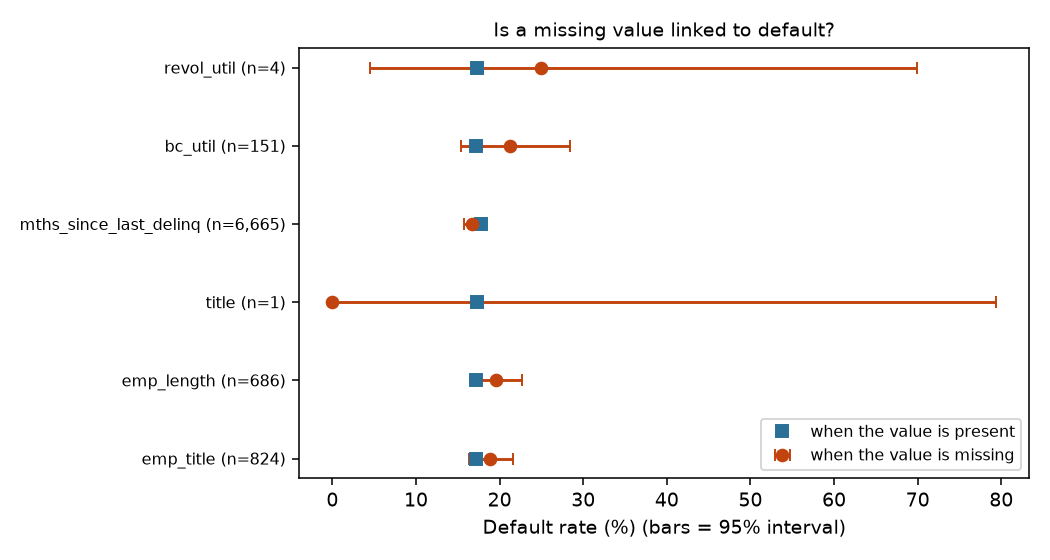
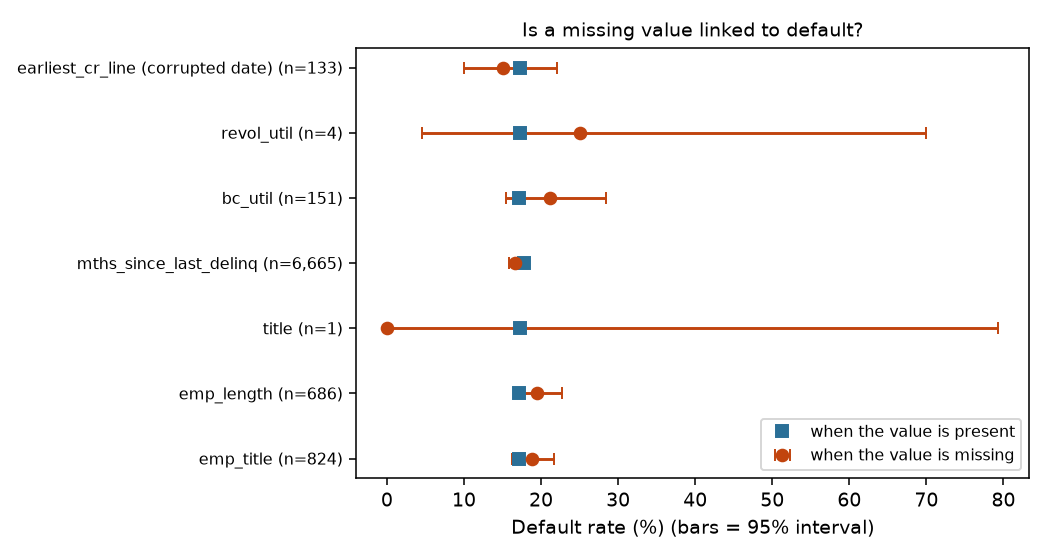
feat: rate servicing fields as leaks, add leakage scan, consistency checks, tighter missingness evidence and reliability spec export

diff --git a/src/credit_risk/field_catalog.py b/src/credit_risk/field_catalog.py
@@ -5,7 +5,8 @@ Reliability rules (evidence in docs/issue_log.md and reports/a3_reliability_evid
           only a small share (about 1%) that were found and repaired;
   medium  reported by the borrower but consistent in the tests, or a system field with errors
           that could not be fully repaired, or with large structural missingness;
-  low     free text, or a field whose content is duplicated, unreliable or a leak.
+  low     free text, or a field whose content is duplicated, unreliable or a leak (every
+          post-issue servicing field is a leak and is rated low).
 Roles: input (usable by the model), platform_score (known at application but produced by the
 platform's own risk model), restricted (location, treatment decided in the fairness review),
 time_key, id, target, excluded (with the reason).
@@ -34,27 +35,27 @@ CATALOG = [
     _f("purpose", APP, True, "input", "medium", "Chosen by the borrower from 13 options; clean, but stated intent is not verified."),
     _f("title", APP, True, "excluded", "low", "Borrower-typed text; 1,821 distinct values that mostly restate purpose."),
     _f("application_type", APP, True, "input", "high", "Platform-recorded; only 16 joint applications, too few to learn from."),
-    _f("emp_title", APP, True, "input", "low", "Borrower-typed text; 5.7% missing; case and spacing variants (15,657 values fall to 13,484). Missing mostly among verified applicants, not linked to default. Used only after grouping into job groups."),
-    _f("emp_length", APP, True, "input", "medium", "Self-reported; 4.8% missing, tied to the verification process, not to default (19.5% vs 17.1%, p = 0.11)."),
+    _f("emp_title", APP, True, "input", "low", "Borrower-typed text; 5.7% missing, concentrated among verified applicants (0.2% of unverified, 3.6% of source-verified, 12.4% of verified), not linked to default (18.8% vs 17.1%, p = 0.22). Case and spacing variants (15,657 values fall to 13,484). Used only after grouping into job groups."),
+    _f("emp_length", APP, True, "input", "medium", "Self-reported; 4.8% missing, tied to the verification process (0.0% of unverified, 2.4% of source-verified, 10.9% of verified), not clearly to default (19.5% vs 17.1%, p = 0.11)."),
     _f("home_ownership", APP, True, "input", "medium", "Self-reported; clean categories."),
     _f("annual_inc", APP, True, "input", "medium", "Self-reported. 899 loans (3%) typed in thousands, repaired. Consistent with credit limits and debt ratios in every verification group (rank correlation 0.55 to 0.57 with total credit limit), so usable; verified incomes are higher (median $66-67k vs $58k)."),
     _f("verification_status", APP, True, "input", "high", "Recorded by the platform. Do not read it as lower risk: verified loans default more (19% vs 13%), likely because the platform chooses whom to verify."),
     _f("dti", APP, True, "input", "medium", "Platform-computed from the stated income and bureau debts, so only as reliable as the income. Rises with revolving balance relative to income (correlation 0.36 to 0.43), as it should."),
     _f("zip_code", APP, True, "restricted", "medium", "First three digits only; disagrees with the state in 33 loans. Location can proxy for protected characteristics; treatment decided in the fairness review."),
     _f("addr_state", APP, True, "restricted", "medium", "Self-reported; 3,000 loans (10%) with formatting variants, all repaired. Treatment decided in the fairness review."),
-    _f("earliest_cr_line", BUR, True, "input", "medium", "Bureau-reported. 300 loans (1%) have a date after the loan, corrupted beyond repair: set missing with an indicator. 1,200 in other formats, parsed."),
+    _f("earliest_cr_line", BUR, True, "input", "medium", "Bureau-reported. 300 loans (1%) have a date after the loan, corrupted beyond repair (133 in the fit window): set missing with an indicator; not linked to default (15.0% vs 17.3%, p = 0.57). 1,200 in other formats, parsed."),
     _f("fico_range_low", BUR, True, "input", "high", "Bureau score. 150 loans (0.5%) had low and high swapped; repaired."),
     _f("fico_range_high", BUR, True, "input", "high", "Bureau score. Swapped with the low value in 150 loans; repaired."),
     _f("inq_last_6mths", BUR, True, "input", "high", "Bureau count; no errors found."),
     _f("delinq_2yrs", BUR, True, "input", "high", "Bureau count; no errors found; mostly zero, long tail capped."),
-    _f("mths_since_last_delinq", BUR, True, "input", "medium", "Missing in 46% of loans, and structurally: 99.7% of the missing have no delinquency in the last two years, so missing means none on record. Not linked to default (16.7% vs 17.7%, p = 0.09). 67 contradictions."),
+    _f("mths_since_last_delinq", BUR, True, "input", "medium", "Missing in 46% of loans, and structurally: 99.7% of the missing have no delinquency in the last two years, so missing means none on record. Not linked to default (16.7% vs 17.7%, p = 0.09). A few contradictions: missing although a delinquency was recorded in the last two years (18 loans in the fit window, 67 overall)."),
     _f("pub_rec", BUR, True, "input", "high", "Bureau count; no errors found."),
     _f("pub_rec_bankruptcies", BUR, True, "input", "high", "Bureau count; no errors found."),
     _f("open_acc", BUR, True, "input", "high", "Bureau count; never above total_acc."),
     _f("total_acc", BUR, True, "input", "high", "Bureau count; no errors found; never below open_acc."),
     _f("revol_bal", BUR, True, "input", "high", "Bureau amount; no errors found; heavy tail is genuine and capped; a few real zeros."),
     _f("revol_util", BUR, True, "input", "medium", "295 negative values (1%) were sign flips, proven against balance and limit; 12 missing (5 with no revolving limit, so undefined)."),
-    _f("bc_util", BUR, True, "input", "medium", "290 negative values (1%) set to missing because the sign flip cannot be proven; 1% more missing in the bureau file, with a weak link to higher default."),
+    _f("bc_util", BUR, True, "input", "medium", "290 negative values (1%) set to missing because the sign flip cannot be proven; 1% more missing in the bureau file, mostly for borrowers with few open accounts (8.6% missing at 3 or fewer open accounts vs 0.4% above 10), with a weak, unproven link to higher default (21.2% vs 17.2%, p = 0.19)."),
     _f("tot_cur_bal", BUR, True, "input", "high", "Bureau amount; no errors found; heavy tail capped."),
     _f("avg_cur_bal", BUR, True, "input", "high", "Bureau amount; no errors found; heavy tail capped."),
     _f("total_rev_hi_lim", BUR, True, "input", "high", "Bureau amount; no errors found; heavy tail capped."),
@@ -62,17 +63,17 @@ CATALOG = [
     _f("mort_acc", BUR, True, "input", "high", "Bureau count; no errors found."),
     _f("acc_open_past_24mths", BUR, True, "input", "high", "Bureau count; no errors found."),
     _f("num_tl_op_past_12m", BUR, True, "input", "high", "Bureau count; no errors found."),
-    _f("bureau_recovery_flag", BUR, False, "excluded", "low", "Leak: identical to `recoveries > 0` in the servicing file (4,207 of 4,207 loans), and every flagged loan defaulted. Absent from the 2016 holdout in any useful form (always 0)."),
-    _f("total_pymnt", SRV, False, "excluded", "n/a", POST + " Payments made so far reveal the outcome."),
-    _f("total_rec_prncp", SRV, False, "excluded", "n/a", POST + " Principal repaid reveals the outcome."),
-    _f("total_rec_int", SRV, False, "excluded", "n/a", POST + " Interest paid reveals how long the loan ran."),
-    _f("recoveries", SRV, False, "excluded", "n/a", POST + " Money recovered after a charge-off: only exists for defaulted loans."),
-    _f("last_pymnt_d", SRV, False, "excluded", "n/a", POST),
-    _f("last_pymnt_amnt", SRV, False, "excluded", "n/a", POST + " 249 values exceed the total paid."),
-    _f("last_credit_pull_d", SRV, False, "excluded", "n/a", POST),
-    _f("last_fico_range_high", SRV, False, "excluded", "n/a", POST + " A later score, lower for defaulters (mean 571 vs 701)."),
-    _f("last_fico_range_low", SRV, False, "excluded", "n/a", POST + " A later score."),
-    _f("debt_settlement_flag", SRV, False, "excluded", "n/a", POST + " Every loan flagged Y (763) defaulted: a leak."),
+    _f("bureau_recovery_flag", BUR, False, "excluded", "low", "Leak: identical to `recoveries > 0` in the servicing file (4,207 of 4,207 loans), and every flagged loan defaulted (single-field AUC 0.91). Always 0 in the 2016 holdout."),
+    _f("total_pymnt", SRV, False, "excluded", "low", POST + " Payments made so far reveal the outcome. Alone it predicts default with AUC 0.72 (application-time fields: 0.51 to 0.59)."),
+    _f("total_rec_prncp", SRV, False, "excluded", "low", POST + " Principal repaid reveals the outcome. Alone it predicts default with AUC 0.85 (application-time fields: 0.51 to 0.59)."),
+    _f("total_rec_int", SRV, False, "excluded", "low", POST + " Interest paid reveals how long the loan ran."),
+    _f("recoveries", SRV, False, "excluded", "low", POST + " Money recovered after a charge-off: only exists for defaulted loans. Alone it predicts default with AUC 0.91 (application-time fields: 0.51 to 0.59)."),
+    _f("last_pymnt_d", SRV, False, "excluded", "low", POST),
+    _f("last_pymnt_amnt", SRV, False, "excluded", "low", POST + " 249 values exceed the total paid. Alone it predicts default with AUC 0.78 (application-time fields: 0.51 to 0.59)."),
+    _f("last_credit_pull_d", SRV, False, "excluded", "low", POST),
+    _f("last_fico_range_high", SRV, False, "excluded", "low", POST + " A later score, lower for defaulters (mean 571 vs 701). Alone it predicts default with AUC 0.91 (application-time fields: 0.51 to 0.59)."),
+    _f("last_fico_range_low", SRV, False, "excluded", "low", POST + " A later score."),
+    _f("debt_settlement_flag", SRV, False, "excluded", "low", POST + " Every loan flagged Y (763) defaulted: a leak."),
 ]
 
 
@@ -82,3 +83,10 @@ def catalog_frame():
 
 def input_fields():
     return [r["field"] for r in CATALOG if r["role"] == "input"]
+
+
+def reliability_spec():
+    """Per-field entries for data_spec.json: reliability, the reason, and how the field may be used."""
+    return {r["field"]: {"reliability": r["reliability"], "reliability_reason": r["reason"],
+                         "known_at_application": r["known_at_application"], "role": r["role"]}
+            for r in CATALOG}

diff --git a/scripts/a3_reliability_evidence.py b/scripts/a3_reliability_evidence.py
@@ -14,7 +14,8 @@ from sklearn.preprocessing import StandardScaler
 from sklearn.pipeline import make_pipeline
 
 from credit_risk.cleaning import Cleaner
-from credit_risk.io import FIT_CUTOFF, load_applications
+from credit_risk.io import FIT_CUTOFF, load_applications, load_servicing
+from sklearn.metrics import roc_auc_score
 from credit_risk.reporting import fresh_dirs
 from credit_risk.stats import wilson_interval
 
@@ -62,7 +63,7 @@ fit["title_missing"] = fit.title.isna()
 fit["bc_util_gap"] = fit.bc_util.isna() & ~fit.bc_util_invalid
 FIELDS = {"emp_title": fit.emp_title.isna(), "emp_length": fit.emp_length.isna(), "title": fit.title.isna(),
           "mths_since_last_delinq": fit.mths_since_last_delinq.isna(), "bc_util": fit.bc_util_gap,
-          "revol_util": fit.revol_util.isna()}
+          "revol_util": fit.revol_util.isna(), "earliest_cr_line (corrupted date)": fit.earliest_cr_line_invalid}
 num = fit[["annual_inc", "loan_amnt", "fico_range_low", "total_acc", "open_acc", "delinq_2yrs", "pub_rec",
            "inq_last_6mths", "revol_bal", "tot_cur_bal", "dti", "int_rate", "term"]].copy()
 num[["annual_inc", "loan_amnt", "revol_bal", "tot_cur_bal"]] = np.log1p(num[["annual_inc", "loan_amnt", "revol_bal", "tot_cur_bal"]])
@@ -101,6 +102,39 @@ ms = fit[fit.mths_since_last_delinq.isna()]
 print("mths_since_last_delinq missing: share with delinq_2yrs=0:", round((ms.delinq_2yrs == 0).mean(), 3), "| share with pub_rec=0:", round((ms.pub_rec == 0).mean(), 3),
       "| present-group share with delinq_2yrs=0:", round((fit.mths_since_last_delinq.notna() & (fit.delinq_2yrs == 0)).sum() / fit.mths_since_last_delinq.notna().sum(), 3))
 
+# 4. rule checks behind the "high" ratings (all loans)
+checks = {
+    "open_acc above total_acc": d.open_acc > d.total_acc,
+    "avg_cur_bal above tot_cur_bal": d.avg_cur_bal > d.tot_cur_bal + 1,
+    "total_rev_hi_lim above tot_hi_cred_lim": d.total_rev_hi_lim > d.tot_hi_cred_lim,
+    "pub_rec_bankruptcies above pub_rec": d.pub_rec_bankruptcies > d.pub_rec,
+    "acc_open_past_24mths above total_acc": d.acc_open_past_24mths > d.total_acc,
+    "num_tl_op_past_12m above acc_open_past_24mths": d.num_tl_op_past_12m > d.acc_open_past_24mths,
+    "FICO outside 300-850": (d.fico_range_low < 300) | (d.fico_range_high > 850),
+    "FICO range width not 4": (d.fico_range_high - d.fico_range_low) != 4,
+    "negative value in a bureau count": (d[["inq_last_6mths", "delinq_2yrs", "pub_rec", "pub_rec_bankruptcies", "open_acc", "total_acc",
+                                            "mort_acc", "acc_open_past_24mths", "num_tl_op_past_12m"]] < 0).any(axis=1),
+    "non-whole bureau count": (d[["inq_last_6mths", "delinq_2yrs", "pub_rec", "open_acc", "total_acc", "mort_acc"]] % 1 != 0).any(axis=1),
+    "installment above 40% of income": d.installment * 12 / d.annual_inc > .4,
+}
+pd.Series({k: int(v.sum()) for k, v in checks.items()}, name="loans_violating").to_csv(TAB / "bureau_consistency_checks.csv", index_label="check")
+
+# 5. leakage scan: how well does ONE field alone predict default? (servicing used for audit only)
+srv = load_servicing().set_index("id")
+inputs = ["loan_amnt", "annual_inc", "dti", "int_rate", "fico_range_low", "revol_util", "delinq_2yrs", "inq_last_6mths", "open_acc", "tot_hi_cred_lim"]
+scan = []
+for c in inputs:
+    x = fit[c].fillna(fit[c].median())
+    a = roc_auc_score(fit.defaulted, x); scan.append({"field": c, "known_at_application": True, "single_field_auc": max(a, 1 - a)})
+sv = srv.reindex(fit.id)
+for c in ["total_rec_prncp", "total_pymnt", "recoveries", "last_fico_range_high", "last_pymnt_amnt"]:
+    x = sv[c].fillna(sv[c].median()).to_numpy()
+    a = roc_auc_score(fit.defaulted, x); scan.append({"field": c, "known_at_application": False, "single_field_auc": max(a, 1 - a)})
+flag = raw.set_index("id").bureau_recovery_flag.reindex(fit.id).to_numpy()
+scan.append({"field": "bureau_recovery_flag", "known_at_application": False, "single_field_auc": roc_auc_score(fit.defaulted, flag)})
+scan = pd.DataFrame(scan)
+scan.round(3).to_csv(TAB / "leakage_scan_single_field_auc.csv", index=False)
+
 fig, ax = plt.subplots(figsize=(7.5, 4))
 y = range(len(dr))
 ax.errorbar(dr.default_rate_when_missing * 100, y, xerr=[(dr.default_rate_when_missing - dr.ci_low) * 100, (dr.ci_high - dr.default_rate_when_missing) * 100],
@@ -124,4 +158,5 @@ print("\nCONSISTENCY WITH INCOME\n", cons.round(3).T.to_string(header=False))
 print("\nMISSINGNESS vs DEFAULT\n", dr.round(3).to_string(index=False))
 print("\nMISSINGNESS MECHANISM (AUC 0.5 = unpredictable from other fields)\n", mech.round(3).to_string(index=False))
 print("\n", overlap.to_string())
+print("\nLEAKAGE SCAN (single-field AUC)\n", scan.round(3).to_string(index=False))
 print("\nTOP PREDICTORS OF MISSINGNESS\n", pd.DataFrame(drivers).round(2).to_string(index=False))

diff --git a/tests/test_field_catalog.py b/tests/test_field_catalog.py
@@ -12,6 +12,7 @@ def test_no_duplicate_fields_and_valid_values():
     df = catalog_frame()
     assert df.field.is_unique
     assert set(df.reliability) <= {"high", "medium", "low", "n/a"}
+    assert set(df[df.reliability == "n/a"].role) == {"id", "target"}  # every other field is rated
     assert set(df.role) <= {"input", "platform_score", "restricted", "time_key", "id", "target", "excluded"}
     assert (df.reason.str.len() > 20).all()
 
@@ -31,3 +32,23 @@ def test_every_column_of_the_source_files_is_covered():
     for f in files:
         cols = set(pd.read_csv(DATA / f"{f}.csv", nrows=0).columns)
         assert cols <= known, f"{f}: unrated {cols - known}"
+
+
+def test_loaded_training_data_contains_no_servicing_columns():
+    if not (DATA / "applications.csv").exists():
+        pytest.skip("data files not present")
+    from credit_risk.io import load_applications
+
+    servicing = set(catalog_frame().query("source == 'loan_servicing'").field)
+    assert not servicing & set(load_applications(DATA).columns)
+
+
+def test_reliability_spec_is_json_ready_and_complete():
+    import json
+
+    from credit_risk.field_catalog import reliability_spec
+
+    spec = reliability_spec()
+    assert set(spec) == {r["field"] for r in CATALOG}
+    assert set(spec["annual_inc"]) == {"reliability", "reliability_reason", "known_at_application", "role"}
+    json.dumps(spec)

diff --git a/scripts/a3_field_catalog.py b/scripts/a3_field_catalog.py
@@ -30,7 +30,7 @@ Generated by `scripts/a3_field_catalog.py` from `src/credit_risk/field_catalog.p
 - **low**: free text, or a field whose content is duplicated, unreliable or a leak.
 
 Evidence: `issue_log.md`, `reports/a3_reliability_evidence/` (income by verification status, consistency with
-income, missingness), `reports/a3_platform_score_check/`.
+income, missingness, a single-field leakage scan), `reports/a3_platform_score_check/`.
 
 Of the {len(avail[avail.reliability != 'n/a'])} rated fields known at application time:
 {counts.get('high', 0)} high, {counts.get('medium', 0)} medium, {counts.get('low', 0)} low.
@@ -41,7 +41,7 @@ Of the {len(avail[avail.reliability != 'n/a'])} rated fields known at applicatio
 ## Not known at application time ({len(late)} fields), excluded from every model input
 A field is excluded when it is recorded after the loan is issued, or when it is a copy of such a field.
 The servicing file is a March 2019 snapshot of how each loan went, so each of its columns reveals the
-outcome. It is used to audit the label and never reaches the model.
+outcome (any one of them alone predicts default with AUC 0.72 to 0.91, against 0.51 to 0.59 for single application-time fields). It is used to audit the label and never reaches the model.
 
 {table(late)}
 

diff --git a/docs/field_reliability.md b/docs/field_reliability.md
@@ -10,7 +10,7 @@ Generated by `scripts/a3_field_catalog.py` from `src/credit_risk/field_catalog.p
 - **low**: free text, or a field whose content is duplicated, unreliable or a leak.
 
 Evidence: `issue_log.md`, `reports/a3_reliability_evidence/` (income by verification status, consistency with
-income, missingness), `reports/a3_platform_score_check/`.
+income, missingness, a single-field leakage scan), `reports/a3_platform_score_check/`.
 
 Of the 38 rated fields known at application time:
 25 high, 11 medium, 2 low.
@@ -29,27 +29,27 @@ Of the 38 rated fields known at application time:
 | `purpose` | applications | medium | model input | Chosen by the borrower from 13 options; clean, but stated intent is not verified. |
 | `title` | applications | low | excluded | Borrower-typed text; 1,821 distinct values that mostly restate purpose. |
 | `application_type` | applications | high | model input | Platform-recorded; only 16 joint applications, too few to learn from. |
-| `emp_title` | applications | low | model input | Borrower-typed text; 5.7% missing; case and spacing variants (15,657 values fall to 13,484). Missing mostly among verified applicants, not linked to default. Used only after grouping into job groups. |
-| `emp_length` | applications | medium | model input | Self-reported; 4.8% missing, tied to the verification process, not to default (19.5% vs 17.1%, p = 0.11). |
+| `emp_title` | applications | low | model input | Borrower-typed text; 5.7% missing, concentrated among verified applicants (0.2% of unverified, 3.6% of source-verified, 12.4% of verified), not linked to default (18.8% vs 17.1%, p = 0.22). Case and spacing variants (15,657 values fall to 13,484). Used only after grouping into job groups. |
+| `emp_length` | applications | medium | model input | Self-reported; 4.8% missing, tied to the verification process (0.0% of unverified, 2.4% of source-verified, 10.9% of verified), not clearly to default (19.5% vs 17.1%, p = 0.11). |
 | `home_ownership` | applications | medium | model input | Self-reported; clean categories. |
 | `annual_inc` | applications | medium | model input | Self-reported. 899 loans (3%) typed in thousands, repaired. Consistent with credit limits and debt ratios in every verification group (rank correlation 0.55 to 0.57 with total credit limit), so usable; verified incomes are higher (median $66-67k vs $58k). |
 | `verification_status` | applications | high | model input | Recorded by the platform. Do not read it as lower risk: verified loans default more (19% vs 13%), likely because the platform chooses whom to verify. |
 | `dti` | applications | medium | model input | Platform-computed from the stated income and bureau debts, so only as reliable as the income. Rises with revolving balance relative to income (correlation 0.36 to 0.43), as it should. |
 | `zip_code` | applications | medium | restricted (fairness review) | First three digits only; disagrees with the state in 33 loans. Location can proxy for protected characteristics; treatment decided in the fairness review. |
 | `addr_state` | applications | medium | restricted (fairness review) | Self-reported; 3,000 loans (10%) with formatting variants, all repaired. Treatment decided in the fairness review. |
-| `earliest_cr_line` | credit_bureau | medium | model input | Bureau-reported. 300 loans (1%) have a date after the loan, corrupted beyond repair: set missing with an indicator. 1,200 in other formats, parsed. |
+| `earliest_cr_line` | credit_bureau | medium | model input | Bureau-reported. 300 loans (1%) have a date after the loan, corrupted beyond repair (133 in the fit window): set missing with an indicator; not linked to default (15.0% vs 17.3%, p = 0.57). 1,200 in other formats, parsed. |
 | `fico_range_low` | credit_bureau | high | model input | Bureau score. 150 loans (0.5%) had low and high swapped; repaired. |
 | `fico_range_high` | credit_bureau | high | model input | Bureau score. Swapped with the low value in 150 loans; repaired. |
 | `inq_last_6mths` | credit_bureau | high | model input | Bureau count; no errors found. |
 | `delinq_2yrs` | credit_bureau | high | model input | Bureau count; no errors found; mostly zero, long tail capped. |
-| `mths_since_last_delinq` | credit_bureau | medium | model input | Missing in 46% of loans, and structurally: 99.7% of the missing have no delinquency in the last two years, so missing means none on record. Not linked to default (16.7% vs 17.7%, p = 0.09). 67 contradictions. |
+| `mths_since_last_delinq` | credit_bureau | medium | model input | Missing in 46% of loans, and structurally: 99.7% of the missing have no delinquency in the last two years, so missing means none on record. Not linked to default (16.7% vs 17.7%, p = 0.09). A few contradictions: missing although a delinquency was recorded in the last two years (18 loans in the fit window, 67 overall). |
 | `pub_rec` | credit_bureau | high | model input | Bureau count; no errors found. |
 | `pub_rec_bankruptcies` | credit_bureau | high | model input | Bureau count; no errors found. |
 | `open_acc` | credit_bureau | high | model input | Bureau count; never above total_acc. |
 | `total_acc` | credit_bureau | high | model input | Bureau count; no errors found; never below open_acc. |
 | `revol_bal` | credit_bureau | high | model input | Bureau amount; no errors found; heavy tail is genuine and capped; a few real zeros. |
 | `revol_util` | credit_bureau | medium | model input | 295 negative values (1%) were sign flips, proven against balance and limit; 12 missing (5 with no revolving limit, so undefined). |
-| `bc_util` | credit_bureau | medium | model input | 290 negative values (1%) set to missing because the sign flip cannot be proven; 1% more missing in the bureau file, with a weak link to higher default. |
+| `bc_util` | credit_bureau | medium | model input | 290 negative values (1%) set to missing because the sign flip cannot be proven; 1% more missing in the bureau file, mostly for borrowers with few open accounts (8.6% missing at 3 or fewer open accounts vs 0.4% above 10), with a weak, unproven link to higher default (21.2% vs 17.2%, p = 0.19). |
 | `tot_cur_bal` | credit_bureau | high | model input | Bureau amount; no errors found; heavy tail capped. |
 | `avg_cur_bal` | credit_bureau | high | model input | Bureau amount; no errors found; heavy tail capped. |
 | `total_rev_hi_lim` | credit_bureau | high | model input | Bureau amount; no errors found; heavy tail capped. |
@@ -61,22 +61,22 @@ Of the 38 rated fields known at application time:
 ## Not known at application time (12 fields), excluded from every model input
 A field is excluded when it is recorded after the loan is issued, or when it is a copy of such a field.
 The servicing file is a March 2019 snapshot of how each loan went, so each of its columns reveals the
-outcome. It is used to audit the label and never reaches the model.
+outcome (any one of them alone predicts default with AUC 0.72 to 0.91, against 0.51 to 0.59 for single application-time fields). It is used to audit the label and never reaches the model.
 
 | Field | Source | Reliability | Role | Reason and evidence |
 |---|---|---|---|---|
 | `defaulted` | applications | n/a | target | The label: 1 = charged off or defaulted, 0 = fully paid. Verified against payment data (no contradictions). |
-| `bureau_recovery_flag` | credit_bureau | low | excluded | Leak: identical to `recoveries > 0` in the servicing file (4,207 of 4,207 loans), and every flagged loan defaulted. Absent from the 2016 holdout in any useful form (always 0). |
-| `total_pymnt` | loan_servicing | n/a | excluded | Recorded after the loan was issued; not known when the applicant applies. Payments made so far reveal the outcome. |
-| `total_rec_prncp` | loan_servicing | n/a | excluded | Recorded after the loan was issued; not known when the applicant applies. Principal repaid reveals the outcome. |
-| `total_rec_int` | loan_servicing | n/a | excluded | Recorded after the loan was issued; not known when the applicant applies. Interest paid reveals how long the loan ran. |
-| `recoveries` | loan_servicing | n/a | excluded | Recorded after the loan was issued; not known when the applicant applies. Money recovered after a charge-off: only exists for defaulted loans. |
-| `last_pymnt_d` | loan_servicing | n/a | excluded | Recorded after the loan was issued; not known when the applicant applies. |
-| `last_pymnt_amnt` | loan_servicing | n/a | excluded | Recorded after the loan was issued; not known when the applicant applies. 249 values exceed the total paid. |
-| `last_credit_pull_d` | loan_servicing | n/a | excluded | Recorded after the loan was issued; not known when the applicant applies. |
-| `last_fico_range_high` | loan_servicing | n/a | excluded | Recorded after the loan was issued; not known when the applicant applies. A later score, lower for defaulters (mean 571 vs 701). |
-| `last_fico_range_low` | loan_servicing | n/a | excluded | Recorded after the loan was issued; not known when the applicant applies. A later score. |
-| `debt_settlement_flag` | loan_servicing | n/a | excluded | Recorded after the loan was issued; not known when the applicant applies. Every loan flagged Y (763) defaulted: a leak. |
+| `bureau_recovery_flag` | credit_bureau | low | excluded | Leak: identical to `recoveries > 0` in the servicing file (4,207 of 4,207 loans), and every flagged loan defaulted (single-field AUC 0.91). Always 0 in the 2016 holdout. |
+| `total_pymnt` | loan_servicing | low | excluded | Recorded after the loan was issued; not known when the applicant applies. Payments made so far reveal the outcome. Alone it predicts default with AUC 0.72 (application-time fields: 0.51 to 0.59). |
+| `total_rec_prncp` | loan_servicing | low | excluded | Recorded after the loan was issued; not known when the applicant applies. Principal repaid reveals the outcome. Alone it predicts default with AUC 0.85 (application-time fields: 0.51 to 0.59). |
+| `total_rec_int` | loan_servicing | low | excluded | Recorded after the loan was issued; not known when the applicant applies. Interest paid reveals how long the loan ran. |
+| `recoveries` | loan_servicing | low | excluded | Recorded after the loan was issued; not known when the applicant applies. Money recovered after a charge-off: only exists for defaulted loans. Alone it predicts default with AUC 0.91 (application-time fields: 0.51 to 0.59). |
+| `last_pymnt_d` | loan_servicing | low | excluded | Recorded after the loan was issued; not known when the applicant applies. |
+| `last_pymnt_amnt` | loan_servicing | low | excluded | Recorded after the loan was issued; not known when the applicant applies. 249 values exceed the total paid. Alone it predicts default with AUC 0.78 (application-time fields: 0.51 to 0.59). |
+| `last_credit_pull_d` | loan_servicing | low | excluded | Recorded after the loan was issued; not known when the applicant applies. |
+| `last_fico_range_high` | loan_servicing | low | excluded | Recorded after the loan was issued; not known when the applicant applies. A later score, lower for defaulters (mean 571 vs 701). Alone it predicts default with AUC 0.91 (application-time fields: 0.51 to 0.59). |
+| `last_fico_range_low` | loan_servicing | low | excluded | Recorded after the loan was issued; not known when the applicant applies. A later score. |
+| `debt_settlement_flag` | loan_servicing | low | excluded | Recorded after the loan was issued; not known when the applicant applies. Every loan flagged Y (763) defaulted: a leak. |
 
 ## Findings that drive the ratings
 - **Income is usable but not verified for everyone.** Median stated income is $58k for unverified and $66-67k
